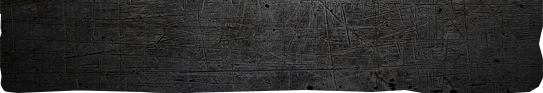
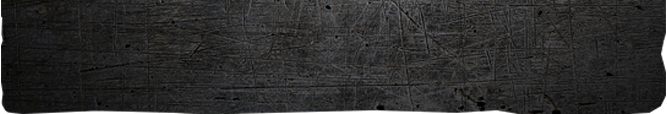
tweaked sizing for a 1280 desktop standard

diff --git a/style.css b/style.css
@@ -70,16 +70,15 @@ body {
  * ----------------------------------- */
 #main-header {
 	width: 100%;
-	padding-bottom: 9%;
+	height: 114px;
+	padding-bottom: 20px;
 	text-align: center;
-	background: url(images/header-background.png) no-repeat center top;
-	background-size: 42%;
 	color: #fff;
 	font-family: Skranji, verdana, sans-serif;
 }
 .site-title {
 	font-size: 3em;
-	padding-top: 30px;
+	padding-top: 22px;
 	padding-bottom: 5px;
 }
 .tagline {
@@ -97,6 +96,7 @@ body {
 	width: 100%;
 	padding: 20px;
 	background: rgba(78, 195, 255, 0.5);
+	margin-bottom: 20px;
 }
 
 .section-title {
@@ -115,8 +115,13 @@ body {
 
 
  @media only screen and (min-width: 960px) {
+ 	#main-header {
+ 		background: url(images/header-background.png) no-repeat center top;
+		background-size: 667px 114px;
+		padding-bottom: 140px;
+ 	}
  	#main-content {
- 		width: 75%;
+ 		width: 1280px;
  		margin: 0 auto;
  	}
  	.main-content-section {
@@ -141,7 +146,7 @@ body {
 
  	#sidebar {
  		float: left;
- 		width: 20%;
- 		margin-left: 5%;
+ 		width: 24.15%;
+ 		margin-left: 1.5%;
  	}
  }
